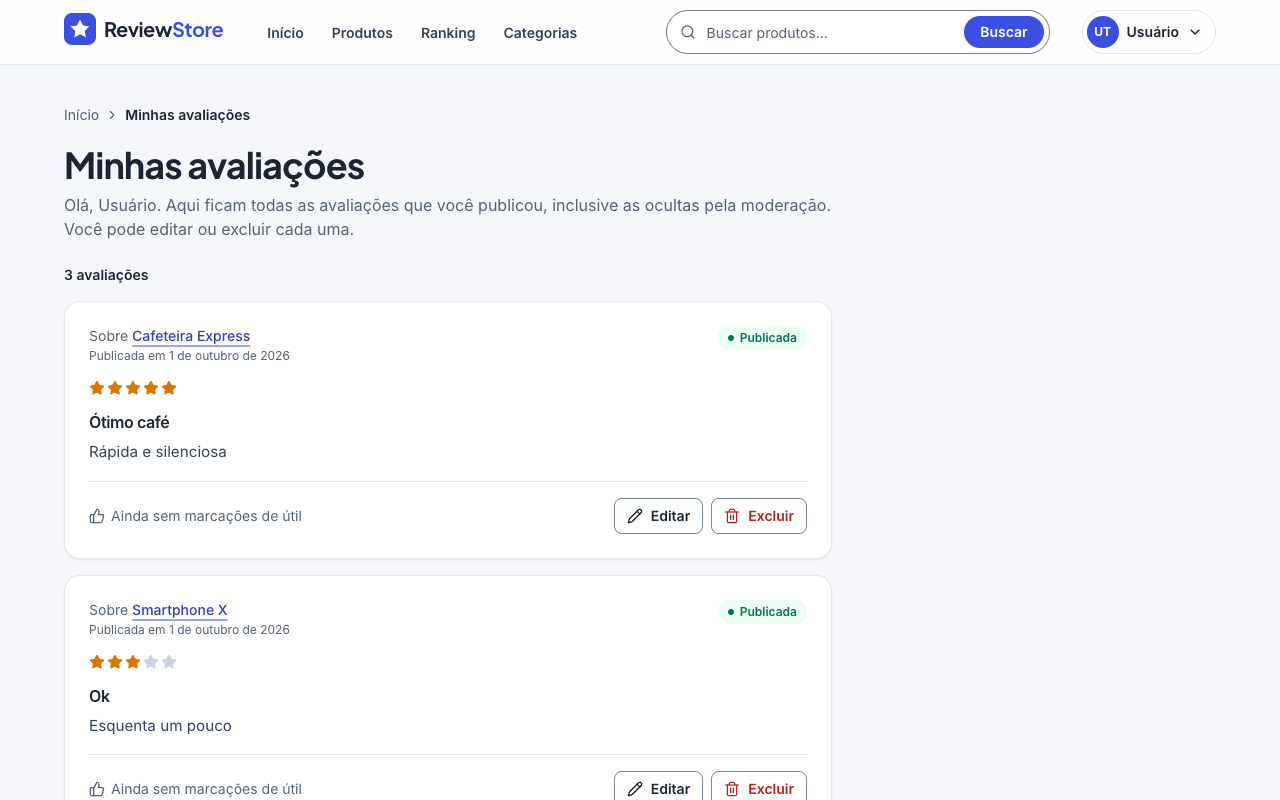
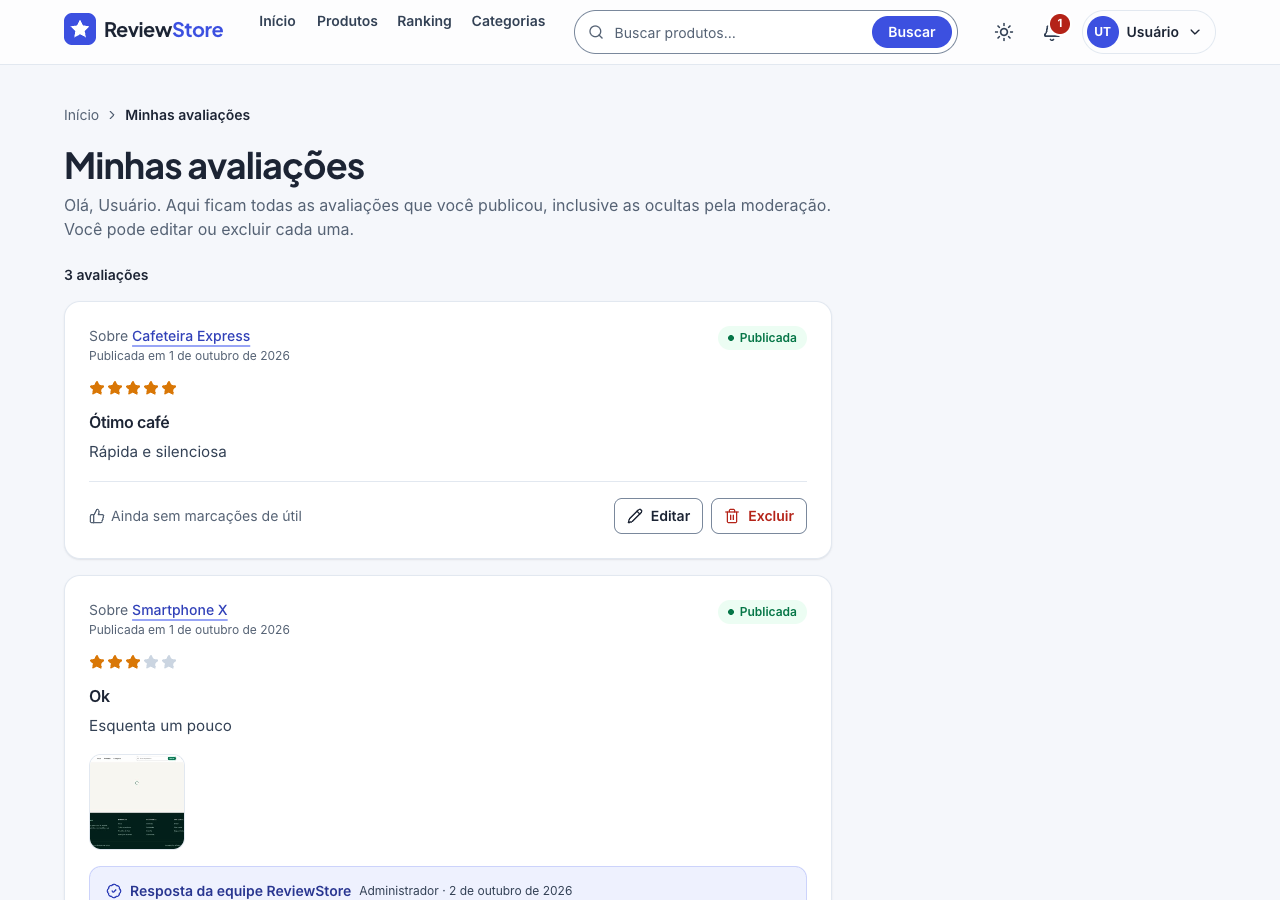
docs(readme): documenta fotos, notificações, perfil, seguir, busca, SEO, modo escuro e testes

diff --git a/README.md b/README.md
@@ -23,6 +23,8 @@ Site público do ecossistema _Production Review_: compare produtos, veja notas e
 [Funcionalidades](#-funcionalidades) ·
 [Telas](#-telas) ·
 [Como rodar](#-como-rodar) ·
+[Testes](#-testes) ·
+[SEO](#-seo) ·
 [Arquitetura](#-arquitetura) ·
 [Acessibilidade](#-acessibilidade) ·
 [Design system](#-design-system)
@@ -47,10 +49,20 @@ Site público do ecossistema _Production Review_: compare produtos, veja notas e
 | 🧭 **Páginas de categoria** | `/categorias/{slug}` com descrição, chips de subcategoria, ordenação e paginação. Links da home, do rodapé e do produto levam para cá. |
 | ⭐ **Notas da comunidade** | Nota média, total e distribuição de 1 a 5 estrelas em cada produto. Cada barra da distribuição filtra as avaliações por nota. |
 | ✍ **Avaliações** | Usuários logados publicam avaliações com título, comentário e nota. Ordenação por mais recentes, mais úteis, maior/menor nota ou mais antigas. |
+| 🖼 **Fotos nas avaliações** | Até 3 fotos por avaliação (JPEG, PNG ou WebP, até 5 MB) ao criar e ao editar: prévia, remoção, validação antes do envio e barra de progresso. Galeria com lightbox acessível (foco preso, <kbd>Esc</kbd>, setas e texto alternativo). |
+| 💬 **Resposta oficial** | A resposta da equipe aparece abaixo da avaliação, no bloco _Resposta da equipe ReviewStore_. |
+| 🚩 **Denunciar** | Modal com os motivos (spam, ofensivo, informação falsa, outro) e detalhes opcionais. A avaliação fica marcada como _Denunciada_; sem login, leva ao login e volta para a avaliação. |
+| 🔔 **Notificações** | Sino no cabeçalho com contador (atualiza a cada 60 s e ao voltar para a aba), painel com as últimas, marcar como lida/todas e página `/notificacoes` com filtro. Clicar leva direto à avaliação. |
+| ⚙ **Preferências** | `/preferencias`: liga/desliga os e-mails de notificação (é para onde os e-mails apontam) e escolhe o tema. |
+| 👤 **Perfil público** | `/u/{username}` com membro desde, estatísticas e avaliações paginadas. O nome do autor de cada avaliação leva ao perfil. |
+| 📌 **Seguir produtos** | Botão _Seguir_/_Seguindo_ com contador no produto e página `/seguindo`. Quem segue recebe notificação de cada avaliação nova. |
+| ⌨ **Autocompletar** | Busca do cabeçalho e da home com sugestões a partir de 2 letras (sem acento), miniatura e categoria, num combobox ARIA completo. |
+| 🌙 **Modo escuro** | Segue o sistema, tem alternância manual salva no navegador e não pisca ao carregar. Contraste AA nos dois temas. |
+| 🔍 **SEO** | Título, descrição, canonical e Open Graph/Twitter por página, JSON-LD `Product` com notas no produto e `robots.txt` com o sitemap. |
 | 👍 **Isso foi útil** | Marque as avaliações que ajudaram você, com resposta instantânea (atualização otimista com desfazer automático em caso de erro). |
 | 🗂 **Minhas avaliações** | Lista das suas avaliações, inclusive as ocultas pela moderação (com o motivo), com edição e exclusão. |
 | 🛍 **Produtos relacionados** | Na página do produto, outros itens da mesma subcategoria, os mais bem avaliados primeiro. |
-| 🔐 **Conta completa** | Cadastro, ativação por e-mail, login (usuário ou e-mail), recuperação de senha com código de 6 dígitos e logout. |
+| 🔐 **Conta completa** | Cadastro, ativação por e-mail, login (usuário ou e-mail), recuperação de senha com código de 6 dígitos e logout. Senha com a mesma política da API (8 a 72 caracteres, letras e números) e checklist ao digitar. No limite de tentativas (429), mostra a mensagem e a contagem regressiva. |
 | ↩ **Volta para onde parou** | Depois do login, o usuário retorna para a página de origem (inclusive para o formulário de avaliação). |
 | 📱 **Responsivo** | De 360 px a telas grandes, com menu mobile acessível. |
 | ♿ **Acessível** | Pensado para teclado e leitores de tela desde o início (veja [Acessibilidade](#-acessibilidade)). |
@@ -90,6 +102,34 @@ Site público do ecossistema _Production Review_: compare produtos, veja notas e
   </tr>
 </table>
 
+<table>
+  <tr>
+    <td width="50%"><img src="docs/screenshots/produto-avaliacoes.png" alt="Avaliações do produto com foto enviada pelo autor e resposta da equipe ReviewStore" /></td>
+    <td width="50%"><img src="docs/screenshots/busca.png" alt="Busca da home com o autocompletar aberto: sugestões com miniatura, categoria e trecho digitado em destaque" /></td>
+  </tr>
+  <tr>
+    <td align="center"><sub><b>Avaliações</b>: fotos, resposta oficial e denúncia</sub></td>
+    <td align="center"><sub><b>Busca</b>: autocompletar acessível</sub></td>
+  </tr>
+</table>
+
+<table>
+  <tr>
+    <td width="50%"><img src="docs/screenshots/notificacoes.png" alt="Página de notificações com o painel do sino aberto e a opção de marcar todas como lidas" /></td>
+    <td width="50%"><img src="docs/screenshots/perfil.png" alt="Perfil público com membro desde, avaliações publicadas, útil recebido e nota média" /></td>
+  </tr>
+  <tr>
+    <td align="center"><sub><b>Notificações</b>: sino, painel e página</sub></td>
+    <td align="center"><sub><b>Perfil público</b>: /u/usuario</sub></td>
+  </tr>
+</table>
+
+<p align="center">
+  <img src="docs/screenshots/modo-escuro.png" alt="Página do produto no modo escuro, com a área de avaliações, a foto e a resposta da equipe" width="80%" />
+  <br />
+  <sub><b>Modo escuro</b>: mesmos componentes, contraste AA</sub>
+</p>
+
 <p align="center">
   <img src="docs/screenshots/minhas-avaliacoes.png" alt="Minhas avaliações: lista com produto, nota, data, status e botões de editar e excluir" width="80%" />
   <br />
@@ -127,12 +167,15 @@ npm run dev
 | `npm run build` | Checagem de tipos (`tsc -b`) + build de produção em `dist/` |
 | `npm run preview` | Serve o build de produção localmente |
 | `npm run lint` | ESLint em todo o projeto |
+| `npm run test` | Testes de componente (Vitest + Testing Library + jsdom) |
+| `npm run test:e2e` | E2E com Playwright e API mockada (sobe o Vite sozinho se a porta 5174 estiver livre) |
 
 ### Variáveis de ambiente
 
 | Variável | Exemplo | Descrição |
 |---|---|---|
-| `VITE_API_URL` | `http://localhost:8084/api/v1` | URL base da API, incluindo `/api/v1` |
+| `VITE_API_URL` | `http://localhost:8084/api/v1` | URL base da API, incluindo `/api/v1`. As fotos das avaliações (`/api/v1/files/...`) usam a origem dela |
+| `VITE_SITE_URL` | `https://reviewstore.com.br` | Opcional. Origem pública usada no canonical e no Open Graph (padrão: a origem atual) |
 
 ## 🐳 Docker e deploy
 
@@ -145,7 +188,7 @@ docker run -p 5174:5174 dashboard-production-review-site   # http://localhost:51
 
 ```mermaid
 flowchart LR
-    T["testings<br/>lint + build<br/>push na main"] -->|sucesso| P["publish<br/>build do commit testado"]
+    T["testings<br/>lint + testes + build + E2E<br/>push na main"] -->|sucesso| P["publish<br/>build do commit testado"]
     P --> GHCR[("ghcr.io (privado)<br/>latest · sha-commit")]
     GHCR --> D["deploy<br/>login temporário + pull + up"]
     D --> VPS["VPS<br/>docker compose"]
@@ -199,15 +242,18 @@ src/
 │   │   ├── hooks/          #   mutations de autenticação
 │   │   └── services/       #   chamadas /auth/*
 │   └── site/
-│       ├── components/     # ProductCard, RankedProduct, RatingBreakdown, FilterChips, ReviewCard...
-│       ├── layout/         # cabeçalho, rodapé e busca (também em MVVM)
+│       ├── components/     # ProductCard, ReviewCard, ReviewGallery, FollowButton, NotificationItem, photo-picker...
+│       ├── layout/         # cabeçalho, rodapé, busca com autocompletar e sino (também em MVVM)
 │       ├── hooks/          # queries e mutations (inclusive "útil" otimista)
 │       ├── services/       # chamadas /production, /category, /review
 │       ├── constants/      # opções de ordenação compartilhadas
 │       └── view/           # home, product-list, product-detail (+ create-review),
-│                           # ranking, category, my-reviews (+ edit-review)
-├── shared/                 # componentes (Modal, botões, estados), hooks, tipos e utilitários
+│                           # ranking, category, my-reviews (+ edit-review), profile,
+│                           # notifications, preferences, following
+├── shared/                 # componentes (Modal, Lightbox, estados), hooks (useSeo, useTheme), tema, tipos e utilitários
+├── test/                   # setup do Vitest e helpers de renderização
 └── router.tsx              # rotas (TanStack Router) com loaders
+e2e/                        # Playwright: specs, fixtures JSON e API mockada
 ```
 
 </details>
@@ -229,6 +275,41 @@ src/
 | Publicar, editar e excluir avaliação | `POST /review/` · `PUT /review/{id}` · `DELETE /review/{id}` |
 | Marcar como útil | `POST /review/{id}/helpful` |
 | Sessão | `POST /auth/sign-in` · `POST /auth/logout` · `GET /user/me` |
+| Autocompletar | `GET /production/suggest?q&limit=8` (só com 2+ caracteres) |
+| Seguir produto | `POST` / `DELETE /production/{id}/follow` · `GET /user/me/following?page&size` |
+| Fotos da avaliação | `POST /review/{id}/images` (multipart `file`) · `DELETE /review/{id}/images/{imageId}` · `GET /files/...` |
+| Denunciar | `POST /review/{id}/report` `{reason, details?}` |
+| Notificações | `GET /notifications?page&size&unreadOnly` · `GET /notifications/unread-count` · `PATCH /notifications/{id}/read` · `PATCH /notifications/read-all` |
+| Preferências | `GET` / `PATCH /user/me/preferences` |
+| Perfil público | `GET /users/{username}` · `GET /users/{username}/reviews?page&size` |
+| JSON-LD do produto | `GET /seo/products/{slug}` |
+
+> [!NOTE]
+> Todas as datas chegam em ISO-8601 UTC (com `Z`) e são exibidas em pt-BR no fuso do navegador. Num 429, o site mostra a mensagem da API e bloqueia o envio até acabar o tempo de espera.
+
+## 🧪 Testes
+
+| Tipo | Ferramentas | O que cobre |
+|---|---|---|
+| Componente | Vitest, Testing Library, jsdom | `StarRatingInput`, combobox da busca, lightbox, sino de notificações, modal de denúncia, seletor de fotos, alternância de tema, política de senha e tratamento do 429 |
+| E2E | Playwright | Home → autocompletar → produto (com SEO/JSON-LD) · login → avaliação com foto · denunciar · seguir · notificações e preferências · minhas avaliações (editar/excluir) · perfil público · modo escuro (sem flash) · menu mobile |
+
+Os E2E usam a API **mockada** com `page.route` (`e2e/support/mock-api.ts` + fixtures JSON em `e2e/fixtures/`), então rodam no CI sem backend. Para rodar contra a API real:
+
+```bash
+E2E_REAL_API=1 npm run test:e2e
+```
+
+Nesse modo o login acontece uma única vez (a sessão fica em `e2e/.auth/user.json` e é reaproveitada por 1 h, porque o login aceita no máximo 5 tentativas por minuto) e só rodam os testes que não alteram dados. Localmente os E2E usam o Chrome instalado (`channel: "chrome"`); no CI, o Chromium do Playwright.
+
+## 🔍 SEO
+
+- `useSeo` define título, descrição, canonical, Open Graph e Twitter Card em cada página; telas da conta recebem `noindex`.
+- Na página do produto, o JSON-LD `Product` + `AggregateRating` + `Review` vem pronto de `GET /seo/products/{slug}`.
+- `public/robots.txt` aponta para o sitemap gerado pela API (`${VITE_API_URL}/seo/sitemap.xml`).
+
+> [!IMPORTANT]
+> O `robots.txt` é estático: antes de publicar, troque `http://localhost:8084` na linha `Sitemap:` pelo domínio público da API.
 
 ## ♿ Acessibilidade
 
@@ -243,7 +324,10 @@ Construído para atender **WCAG 2.1 nível AA**:
 - **"Isso foi útil"**: botão com `aria-pressed`; na própria avaliação fica desabilitado com a explicação visível.
 - **Diálogos**: edição e exclusão usam `<dialog>` modal com foco preso, <kbd>Esc</kbd> para fechar e foco devolvido ao botão de origem; a exclusão é um `alertdialog` com foco inicial em "Cancelar".
 - **Feedback assíncrono**: `aria-live` no envio de avaliação, na contagem de resultados, nos filtros e nas marcações de útil.
-- **Movimento e contraste**: respeita `prefers-reduced-motion`; todos os textos passam de 4,5:1 de contraste (verificado por script).
+- **Autocompletar**: `role="combobox"` com `aria-expanded`, `aria-controls` e `aria-activedescendant`; <kbd>↑</kbd> <kbd>↓</kbd> navegam, <kbd>Enter</kbd> abre o produto e <kbd>Esc</kbd> fecha. O total de sugestões é anunciado.
+- **Lightbox**: `<dialog>` modal com foco preso, <kbd>Esc</kbd>, setas, contador "Foto 2 de 3" anunciado e `alt` descritivo em cada foto.
+- **Notificações**: o sino diz quantas não lidas há no nome acessível, anuncia as novas com `aria-live` e o painel fecha com <kbd>Esc</kbd> devolvendo o foco.
+- **Movimento e contraste**: respeita `prefers-reduced-motion` (microinterações desligadas); todos os textos passam de 4,5:1 de contraste nos temas claro **e** escuro (verificado por script).
 
 ## 🎨 Design system
 
@@ -257,6 +341,8 @@ Identidade compartilhada com o [painel administrativo](https://github.com/erikom
 | `muted` | ![#556274](https://img.shields.io/badge/%23556274-556274?style=flat-square) | Texto auxiliar |
 | `canvas` | ![#F5F7FB](https://img.shields.io/badge/%23F5F7FB-F5F7FB?style=flat-square) | Fundo da página |
 | `star` | ![#D97706](https://img.shields.io/badge/%23D97706-D97706?style=flat-square) | Estrelas das avaliações |
+
+No modo escuro, os mesmos tokens trocam de valor por variáveis CSS (`src/index.css`): fundo `#0B1120`, superfície `#151D2E`, texto `#E8ECF3` e links `#A8B3FA`. Botões, estrelas e o índigo da marca não mudam.
 
 **Tipografia:** [Plus Jakarta Sans](https://fonts.google.com/specimen/Plus+Jakarta+Sans) nos títulos e [Inter](https://fonts.google.com/specimen/Inter) no texto.
 
